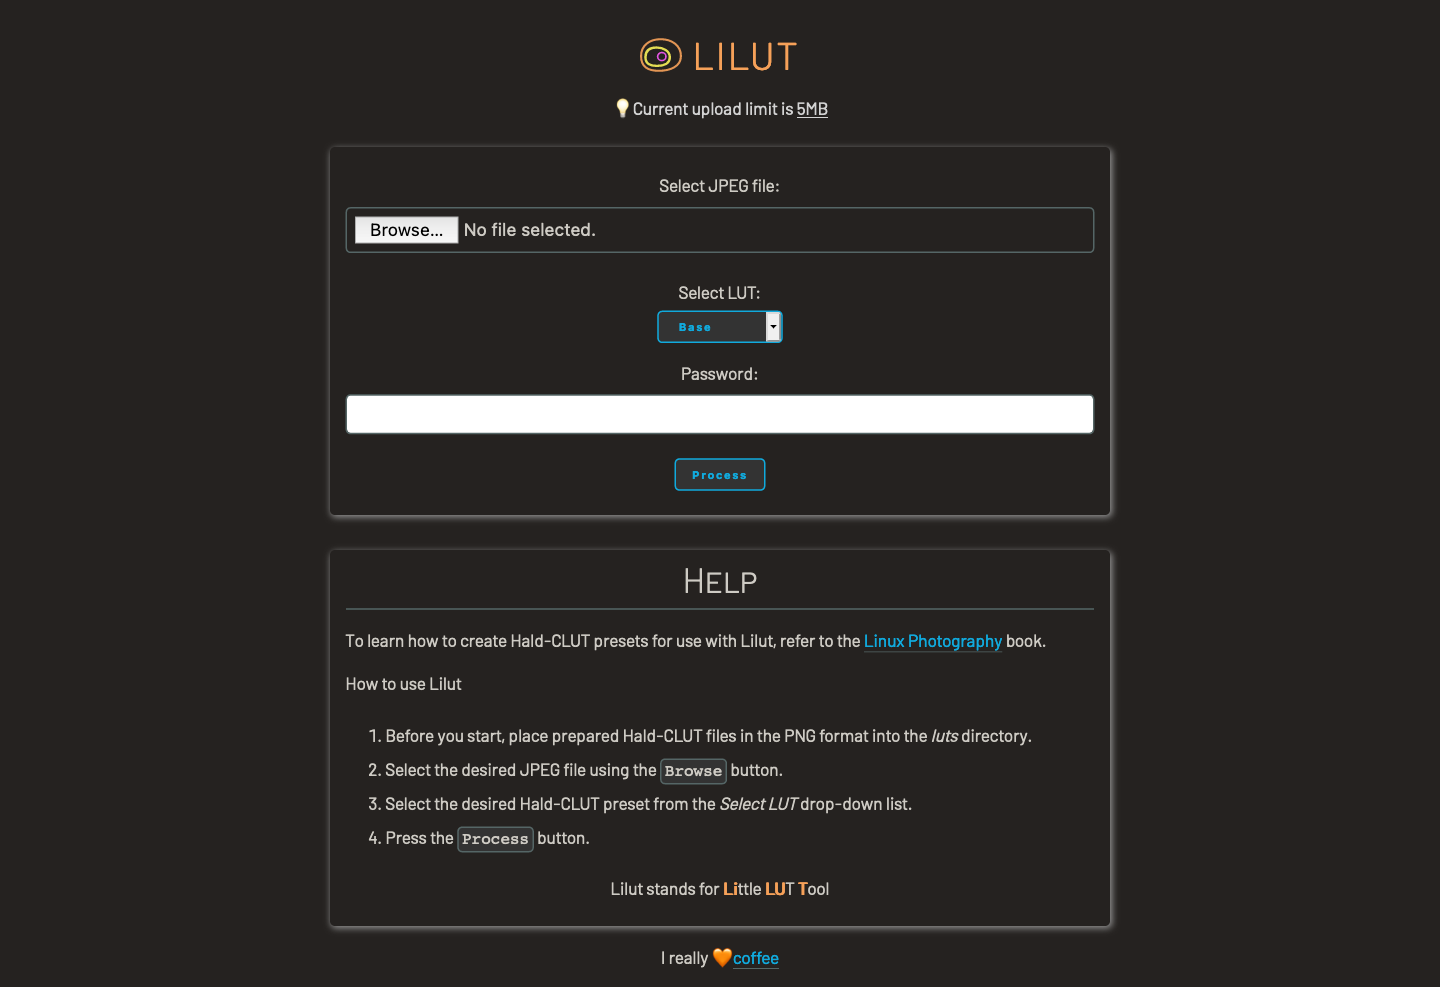
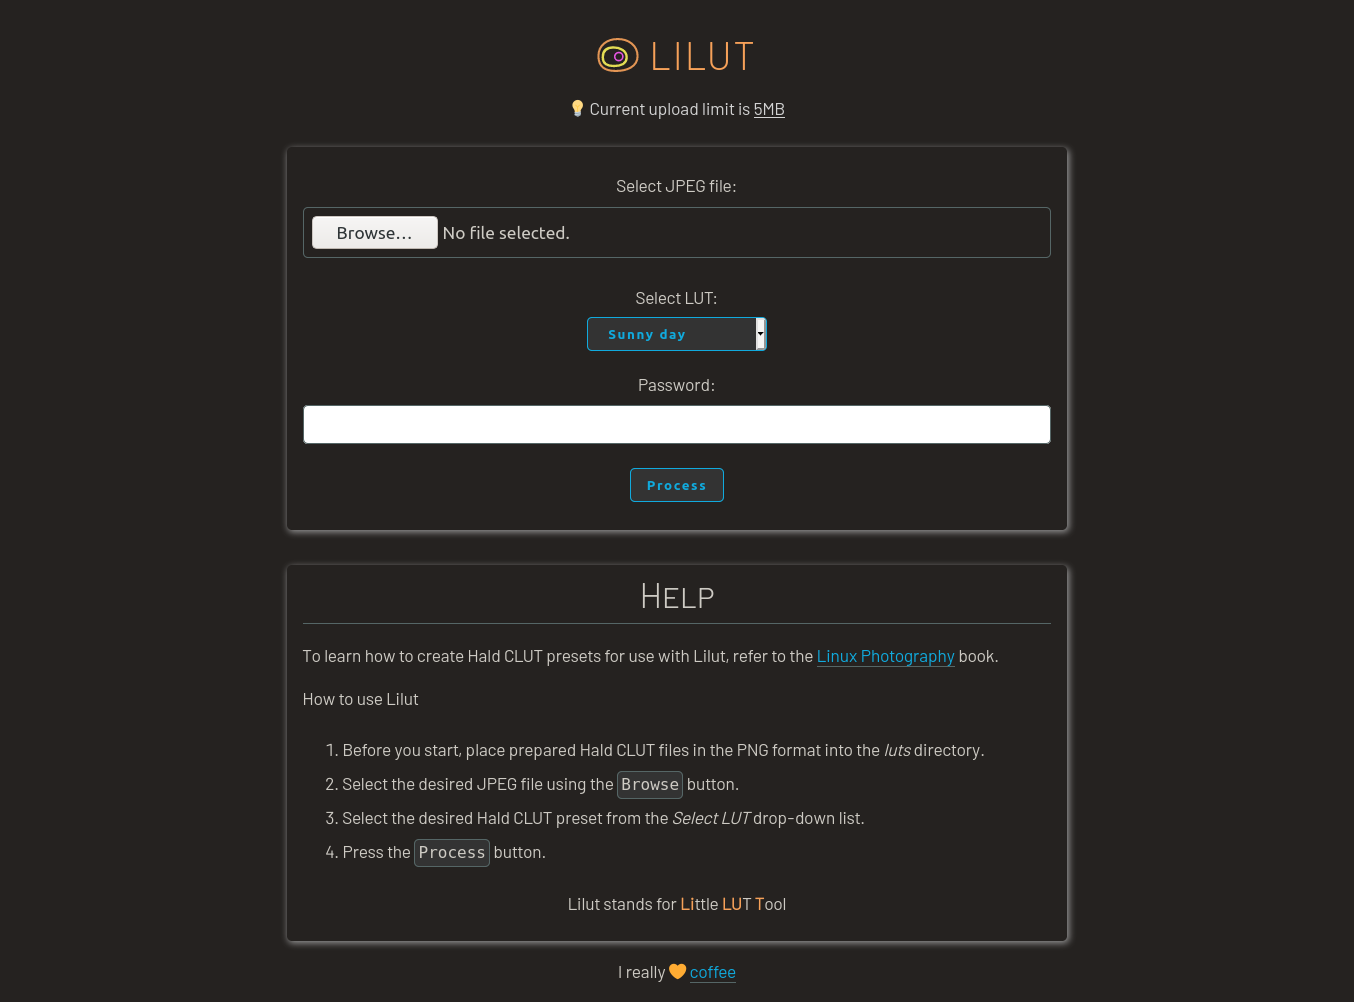
LUT name in result

diff --git a/index.php b/index.php
@@ -67,17 +67,17 @@ include('config.php');
 	<div class="card" style="margin-top: 2em;">
 		<h2 class="text-center" style="margin-top: 0em;">Help</h2>
 		<hr>
-		<p>To learn how to create Hald-CLUT presets for use with Lilut, refer to the <a href="https://gumroad.com/l/linux-photography">Linux Photography</a> book.
+		<p>To learn how to create Hald CLUT presets for use with Lilut, refer to the <a href="https://gumroad.com/l/linux-photography">Linux Photography</a> book.
 		<p>How to use Lilut</p>
 		<ol>
 			<li>
-				Before you start, place prepared Hald-CLUT files in the PNG format into the <i>luts</i> directory.
+				Before you start, place prepared Hald CLUT files in the PNG format into the <i>luts</i> directory.
 			</li>
 			<li>
 				Select the desired JPEG file using the <kbd>Browse</kbd> button.
 			</li>
 			<li>
-				Select the desired Hald-CLUT preset from the <em>Select LUT</em> drop-down list.
+				Select the desired Hald CLUT preset from the <em>Select LUT</em> drop-down list.
 			</li>
 			<li>
 				Press the <kbd>Process</kbd> button.

diff --git a/process.php b/process.php
@@ -31,6 +31,7 @@ include('config.php');
 		// Check if image file is a actual image or fake image
 		if (isset($_POST["submit"])) {
 			$lut = $_POST['lut'];
+			$lutname = strtolower(str_replace(" ", "-", basename($lut, ".png")));
 			$check = getimagesize($_FILES["fileToUpload"]["tmp_name"]);
 			if ($check !== false) {
 				$uploadOk = 1;
@@ -53,8 +54,8 @@ include('config.php');
 				$imagick = new \Imagick('upload/' . $_FILES["fileToUpload"]["name"]);
 				$imagickPalette = new \Imagick(realpath("luts/$lut"));
 				$imagick->haldClutImage($imagickPalette);
-				$imagick->writeImage("result/" . basename($_FILES["fileToUpload"]["name"]));
-				$file = "result/" . basename($_FILES["fileToUpload"]["name"]);
+				$imagick->writeImage("result/" . $lutname . "_" . basename($_FILES["fileToUpload"]["name"]));
+				$file = "result/" . $lutname . "_"  . basename($_FILES["fileToUpload"]["name"]);
 				ob_start();
 				while (ob_get_status()) {
 					ob_end_clean();
